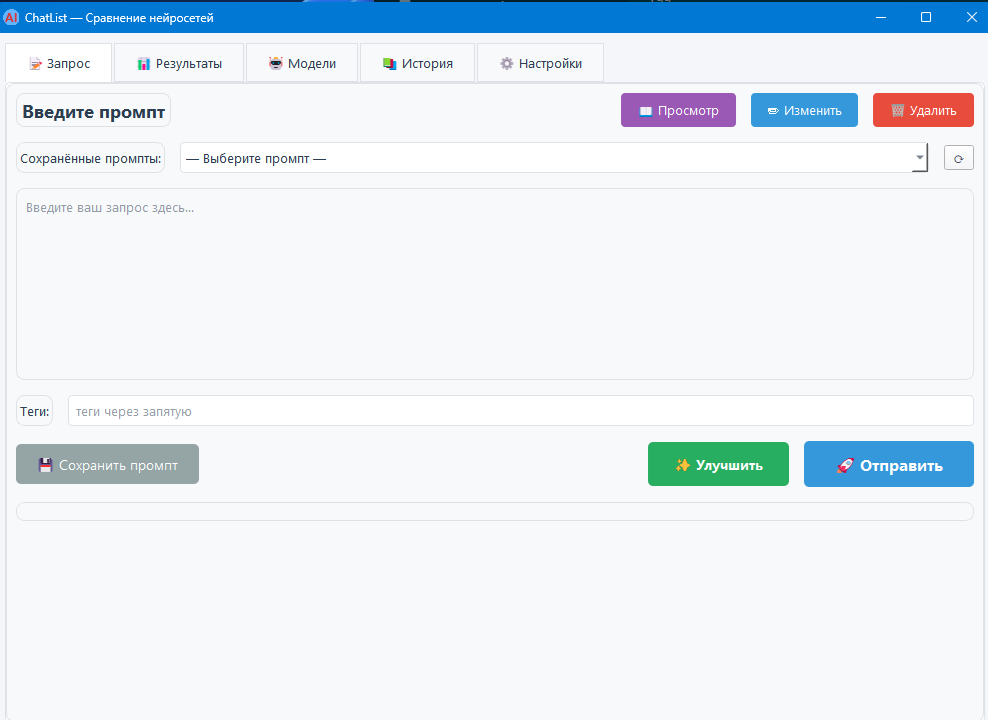
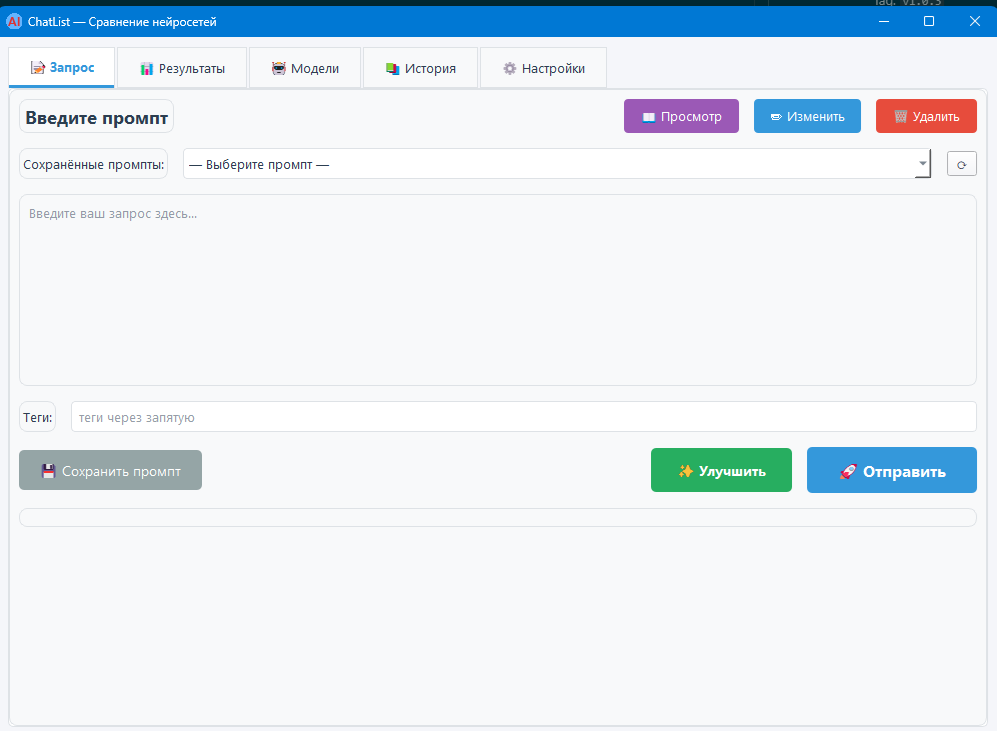
Update screenshots on GitHub Pages with cache-busting

diff --git a/docs/index.html b/docs/index.html
@@ -173,15 +173,15 @@
             <h2 class="section-title">Скриншоты</h2>
             <div class="screenshots-grid">
                 <div class="screenshot-card">
-                    <img src="images/Запрос.png" alt="Главное окно ChatList" loading="lazy">
+                    <img src="images/Запрос.png?v=20260113" alt="Главное окно ChatList" loading="lazy">
                     <p class="screenshot-caption">Главное окно - отправка промптов</p>
                 </div>
                 <div class="screenshot-card">
-                    <img src="images/Результаты.png" alt="Результаты сравнения" loading="lazy">
+                    <img src="images/Результаты.png?v=20260113" alt="Результаты сравнения" loading="lazy">
                     <p class="screenshot-caption">Сравнение ответов разных AI-моделей</p>
                 </div>
                 <div class="screenshot-card">
-                    <img src="images/Настройки.png" alt="Настройки приложения" loading="lazy">
+                    <img src="images/Настройки.png?v=20260113" alt="Настройки приложения" loading="lazy">
                     <p class="screenshot-caption">Настройки интерфейса и API ключей</p>
                 </div>
             </div>
